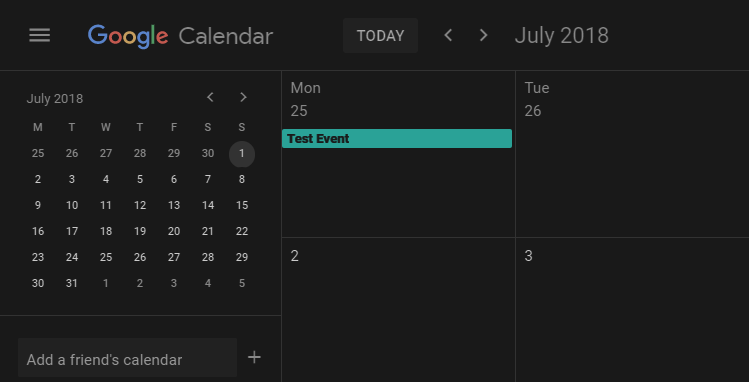
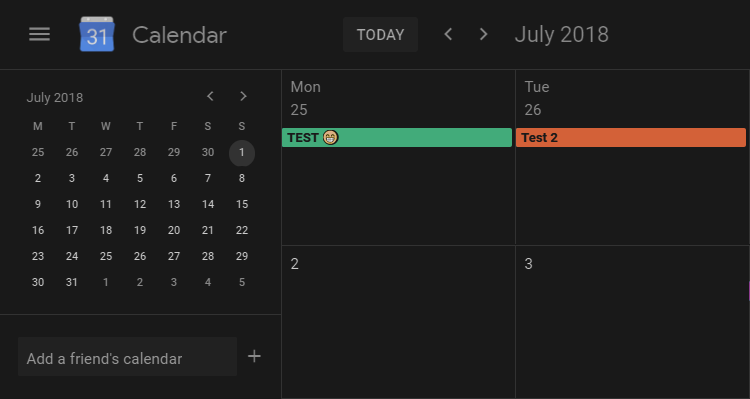
Small fix & new image

diff --git a/Style.css b/Style.css
@@ -39,8 +39,8 @@ html:not(img) {
 /* Dark blue top of right hand panel and black text */
 
 .CflnFb {
-    background-color: #7b96c1;
-    color: black;
+    background-color: #7b96c1!important;
+    color: black!important;
 }
 /* Reduced opacity of the background color while adding an event */
 
@@ -50,7 +50,7 @@ html:not(img) {
 /* Changed color of event deleted panel */
 
 .lq96Td {
-    background-color: #eae5d1;
+    background-color: #eae5d1!important;
 }
 /* color of calendar in the pop up menu of month view */
 
@@ -64,12 +64,12 @@ html:not(img) {
 #gb a.gb_ja:active,
 #gb a.gb_ka,
 #gb a.gb_ka:visited {
-    color: rgba(255, 255, 255, 0.87);
-    text-decoration: none;
-    background-color: black;
+    color: rgba(255, 255, 255, 0.87)!important;
+    text-decoration: none!important;
+    background-color: black!important;
 }
 .gb_3 {
-    font-weight: 600;
+    font-weight: 600!important;
 }
 /* Invertion of event action pop up (saved, updated, deleted etc.)*/
 
@@ -88,7 +88,7 @@ html:not(img) {
 #gb a.gb_ja:active,
 #gb a.gb_ka,
 #gb a.gb_ka:visited {
-    background-color: #b5b5b5;
+    background-color: #b5b5b5!important;
 }
 /* Update to white color of the icons next to avatar */
 
@@ -111,19 +111,22 @@ html:not(img) {
 
 .gb_yc svg,
 .gb_kc svg {
-    color: black;
-    opacity: .54;
+    color: black!important;
+    opacity: .54!important;
 }
 /* Invertion of main avatar icon */
 
 .gb_b.gb_ib.gb_R {
     filter: invert(100%) hue-rotate(180deg)!important;
 }
-.g3dbUc,
+
+/* Fix of event colors and text */
+.g3dbUc
 .jKgTF,
 .QGRmIf,
 .lcPUt {
     filter: invert(100%) hue-rotate(180deg)!important;
+    text-shadow: 0.2px 0.2px #000!important;
 }
 /* Invertion of event colors in the pop up view coming after right clicking the event in the month view */
 
@@ -134,7 +137,7 @@ html:not(img) {
 
 .Wbs5sd,
 .rF3YF.wmyjXb {
-    color: #000;
+    color: #000!important;
 }
 /* Invertion of event colors in the main event view */
 
@@ -147,6 +150,19 @@ html:not(img) {
     filter: invert(100%) hue-rotate(180deg)!important;
 }
 
+/* Event color in "4 days" view" */
+
+.NlL62b.EfQccc.elYzab-cXXICe-Hjleke.EiZ8Dd.jKgTF {
+    filter: invert(100%) hue-rotate(180deg)!important;
+        text-shadow: 0.2px 0.2px #000!important;
+}
+
+/*Color of events in the "Schedule" view */
+
+.Oxm52e {
+    filter: invert(100%) hue-rotate(180deg)!important;
+}
+
 
 
 
@@ -155,29 +171,30 @@ html:not(img) {
 /* Increased weight of the font used in top left mini calendar */
 
 .W0m3G {
-    font-weight: 500;
+    font-weight: 500!important;
 }
 /* Increased font weight of the event titles on the main view */
 
 .g3dbUc {
-    font-weight: 900;
-    color: #000000;
+    font-weight: 900!important;
+    color: #000000!important;
+    
 }
 /* Changed the font color for the past events */
 
 .g3dbUc.UflSff {
-    color: #404040;
+    color: #404040!important;
 }
 /* Changed the font color for some kind of events (in the month view) */
 
 .g3dbUc.smECzc {
-    color: #666666;
+    color: #666666!important;
 }
 /* Font color fix for past events (in the week view) */
 
 .FAxxKc {
-    font-weight: 600;
-    color: #000000;
+    font-weight: 600!important;
+    color: #000000!important;
 }
 /* Font color fix for time and places of events (in the week view) */
 
@@ -186,22 +203,22 @@ html:not(img) {
 .Jmftzc.gVNoLb.EiZ8Dd,
 .Jmftzc.K9QN7e.EiZ8Dd.UflSff,
 .Jmftzc.K9QN7e.EiZ8Dd {
-    color: #000000;
+    color: #000000!important;
 }
 /* Check mark color in the left side bar */
 
 .rq8Mwb {
-    filter: invert(100%);
+    filter: invert(100%)!important;
 }
 /* Change of event text color in the pop-up window */
 
 .i5a7ie {
-    color: #000;
+    color: #000!important;
 }
 /* Change of text color in the pop-up menu under the avatar icon */
 
 .gb_Eb {
-    color: grey;
+    color: grey!important;
 }
 /* Invertion of text in the pop up view coming after left clicking the event in the month view */
 
